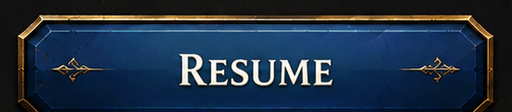
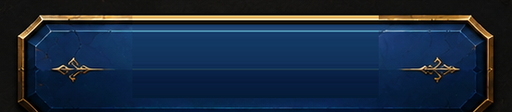
fix(ui-art): clean baked text from kit panel+buttons; scrim backdrops (device fidelity pass 1)
On-device fidelity review (0.0.92) found: extracted gem buttons + ornate panel carried baked
PAUSED/RESUME/SETTINGS/SURRENDER text that bled through (live labels couldn't cover the wide-stretched
baked text), and mockup backdrops showed baked wrong-brand logos/titles behind live chrome. Fixes:
- extract_assets.py clean_button() stamps a clean body column over the centre text (keeps gold rim +
  flourishes); clean_panel() replaces the panel interior with a dark obsidian gradient (keeps gold frame).
- UiWidgets.Backdrop() adds a 0.45 scrim so baked logos/titles recede under the live BULWARK chrome.
Presentation-only (§12). Roslyn 62/0/0.

diff --git a/ui_pipeline/extract_assets.py b/ui_pipeline/extract_assets.py
@@ -55,6 +55,25 @@ def recolor(im, target, boost=1.45):
                 px[x,y] = (min(255,int(tr*lum*boost)), min(255,int(tg*lum*boost)), min(255,int(tb*lum*boost)), a)
     return im
 
+def clean_button(im):
+    """Erase the baked centre label (RESUME/etc.) by stamping a clean body column across the middle;
+    keeps the gold rim (top/bottom) + the end flourishes (~18%/82%) so only the text region is replaced."""
+    im = im.convert("RGBA"); px = im.load(); w, h = im.size; sx = int(w*0.22)
+    for x in range(int(w*0.26), int(w*0.74)):
+        for y in range(int(h*0.12), int(h*0.88)):
+            px[x, y] = px[sx, y]
+    return im
+
+def clean_panel(im):
+    """Erase the baked interior (PAUSED title + 3 buttons) → subtle dark obsidian gradient; keep the gold frame."""
+    im = im.convert("RGBA"); px = im.load(); w, h = im.size
+    x0,x1,y0,y1 = int(w*0.13),int(w*0.87),int(h*0.12),int(h*0.88)
+    for y in range(y0, y1):
+        t = (y-y0)/max(1,(y1-y0))
+        col = (int(20*(1-t)+10*t), int(22*(1-t)+11*t), int(30*(1-t)+15*t), 255)
+        for x in range(x0, x1): px[x, y] = col
+    return im
+
 # ---- 1) backdrops (JPG q82, 1000w) ----
 for key,name in SCREENS.items():
     im = src(name); w,h = im.size
@@ -66,14 +85,14 @@ def dn(im, w=512):
     return im.resize((w, int(im.height*w/im.width)), Image.LANCZOS) if im.width > w else im
 def savek(im, out, w=512): dn(im,w).save(os.path.join(OUT,out+".png"))
 
-panel = crop_frac("PauseModalDesign", (0.28,0.105,0.72,0.95))       # gold ornate panel (gem dropped → no top smear)
+panel = clean_panel(crop_frac("PauseModalDesign", (0.28,0.105,0.72,0.95)))   # gold ornate frame, interior cleaned
 savek(panel,"kit_panel_ornate")
 savek(crop_frac("PauseModalDesign", (0.452,0.0,0.548,0.088)),"kit_finial",128)  # blue gem finial
 
-blue = crop_frac("PauseModalDesign", (0.345,0.315,0.655,0.452))     # RESUME (clean blue gem button)
-savek(blue,"kit_btn_blue")
-savek(crop_frac("PauseModalDesign", (0.345,0.475,0.655,0.60)),"kit_btn_dark")   # SETTINGS (dark steel)
-savek(crop_frac("PauseModalDesign", (0.345,0.625,0.655,0.762)),"kit_btn_red")   # SURRENDER (oxblood)
+blue = clean_button(crop_frac("PauseModalDesign", (0.345,0.315,0.655,0.452)))   # blue gem button (text erased)
+dark = clean_button(crop_frac("PauseModalDesign", (0.345,0.475,0.655,0.60)))    # dark steel
+red  = clean_button(crop_frac("PauseModalDesign", (0.345,0.625,0.655,0.762)))   # oxblood
+savek(blue,"kit_btn_blue"); savek(dark,"kit_btn_dark"); savek(red,"kit_btn_red")
 savek(recolor(blue,(225,170,55)),"kit_btn_gold")    # gold/orange
 savek(recolor(blue,(70,165,60)),"kit_btn_green")    # emerald
 savek(recolor(blue,(150,80,200)),"kit_btn_purple")  # amethyst

diff --git a/Assets/_Game/Bootstrap/UiWidgets.cs b/Assets/_Game/Bootstrap/UiWidgets.cs
@@ -163,6 +163,9 @@ namespace Bulwark.Bootstrap
             var bd = UiAssets.Instance != null ? UiAssets.Instance.Backdrop(screenKey) : null;
             if (bd != null) { img.sprite = bd; img.color = Color.white; img.preserveAspect = false; }
             img.gameObject.AddComponent<BackdropBinder>().Init(img, screenKey);
+            // Scrim over the backdrop: the mockups have baked UI (wrong-brand logos/titles); this dims them so the
+            // live BULWARK chrome on top dominates, while the atmospheric art still reads through.
+            var scrim = Stretch("BackdropScrim_" + screenKey, fullBleed, new Color(0f, 0f, 0f, 0.45f)); scrim.raycastTarget = false;
             return img;
         }
 
